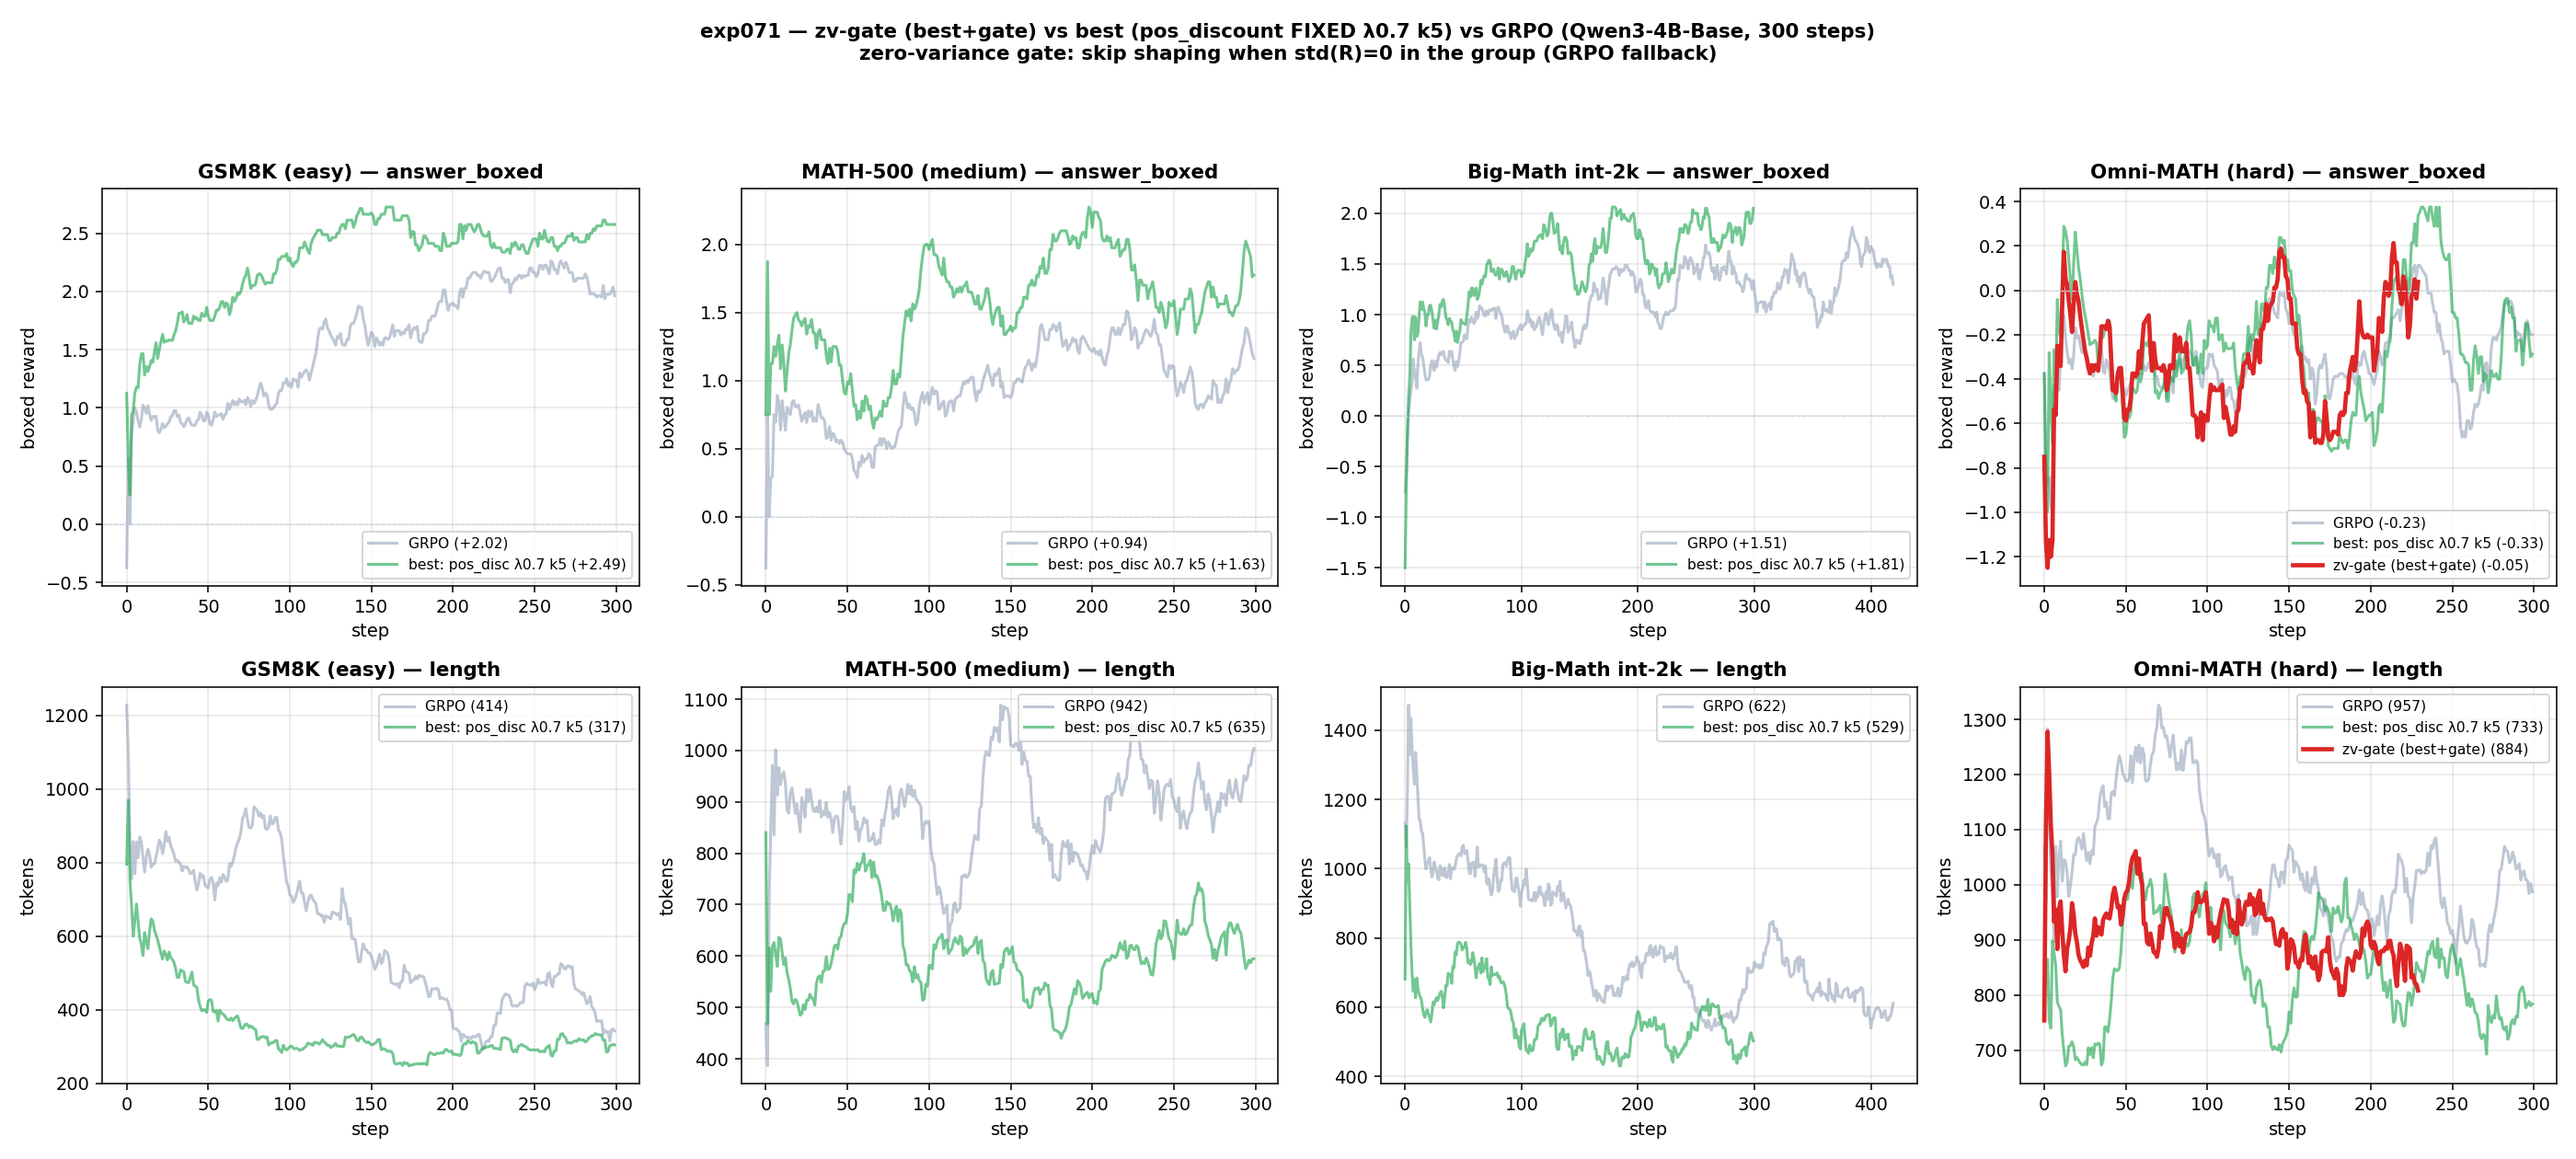
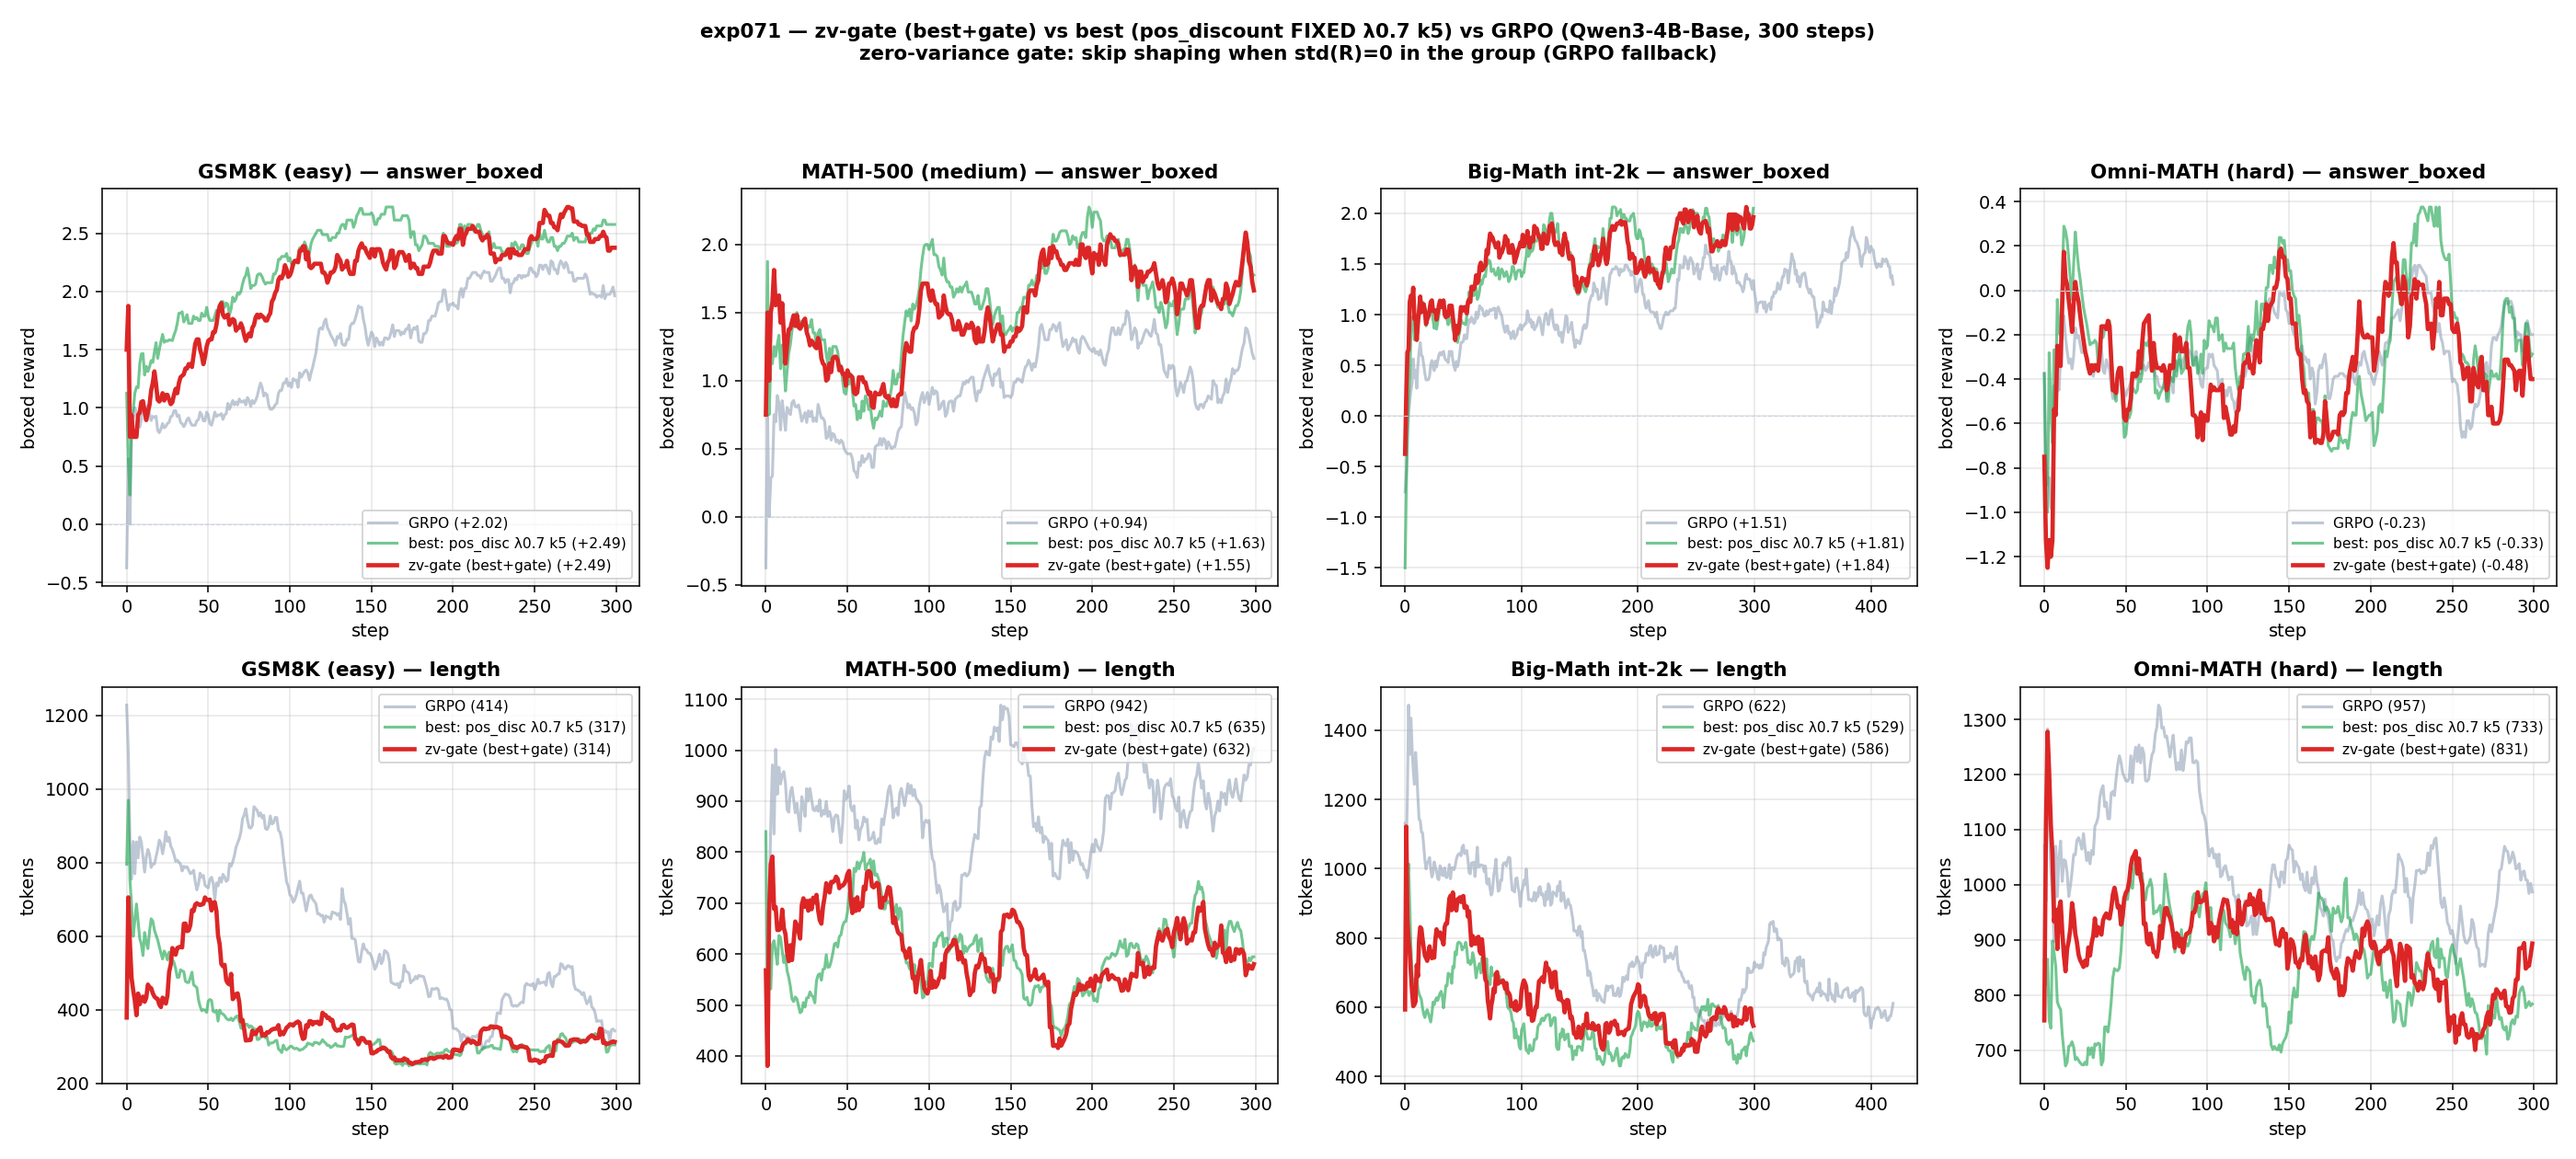
exp_071 FINAL: zvgate = best on easy/medium (no regression, bigmath +1.84), omnimath transient -0.07@180-240 but -0.48 final; exp_072 branch_entropy started (gsm8k)

diff --git a/experiments/exp_071_zero_variance_gate/README.md b/experiments/exp_071_zero_variance_gate/README.md
@@ -16,6 +16,19 @@ logs the gated fraction.
 
 **Expected:** omnimath gap to GRPO closes/flips; no regression on gsm8k/math500/bigmath.
 
-## Results
+## Results (300 steps, L50 boxed / len)
 
-_(in progress)_
+| dataset | GRPO | best (posdisc λ0.7 k5) | **zvgate** |
+|---|---|---|---|
+| gsm8k    | +2.02 / 414 | +2.49 / 317 | **+2.49 / 314** (=best) |
+| math500  | +0.94 / 942 | **+1.63** / 635 | +1.55 / 632 |
+| bigmath  | +1.51 / 622 | +1.81 / 529 | **+1.84 / 586** |
+| omnimath | **−0.23** / 957 | −0.33 / 733 | −0.48 / 831 |
+
+Gate fires exactly as predicted (~40% of omnimath groups; 0.63 in the last window as
+saturation grows). **No regression** on the easy/medium datasets (gsm8k identical to best,
+bigmath slightly up). **Omnimath not fixed though:** transient improvement mid-run
+(window 180–240: −0.07, briefly the best-ever shaped score there) but the last window fell
+back to −0.42 — removing the zero-variance noise updates alone is insufficient; the shaping
+signal on the ~60% non-degenerate groups still hurts on the hard tail. Takeaway: keep the
+gate (free, principled, no downside) but omnimath needs signal-level changes (see exp_072/075).
